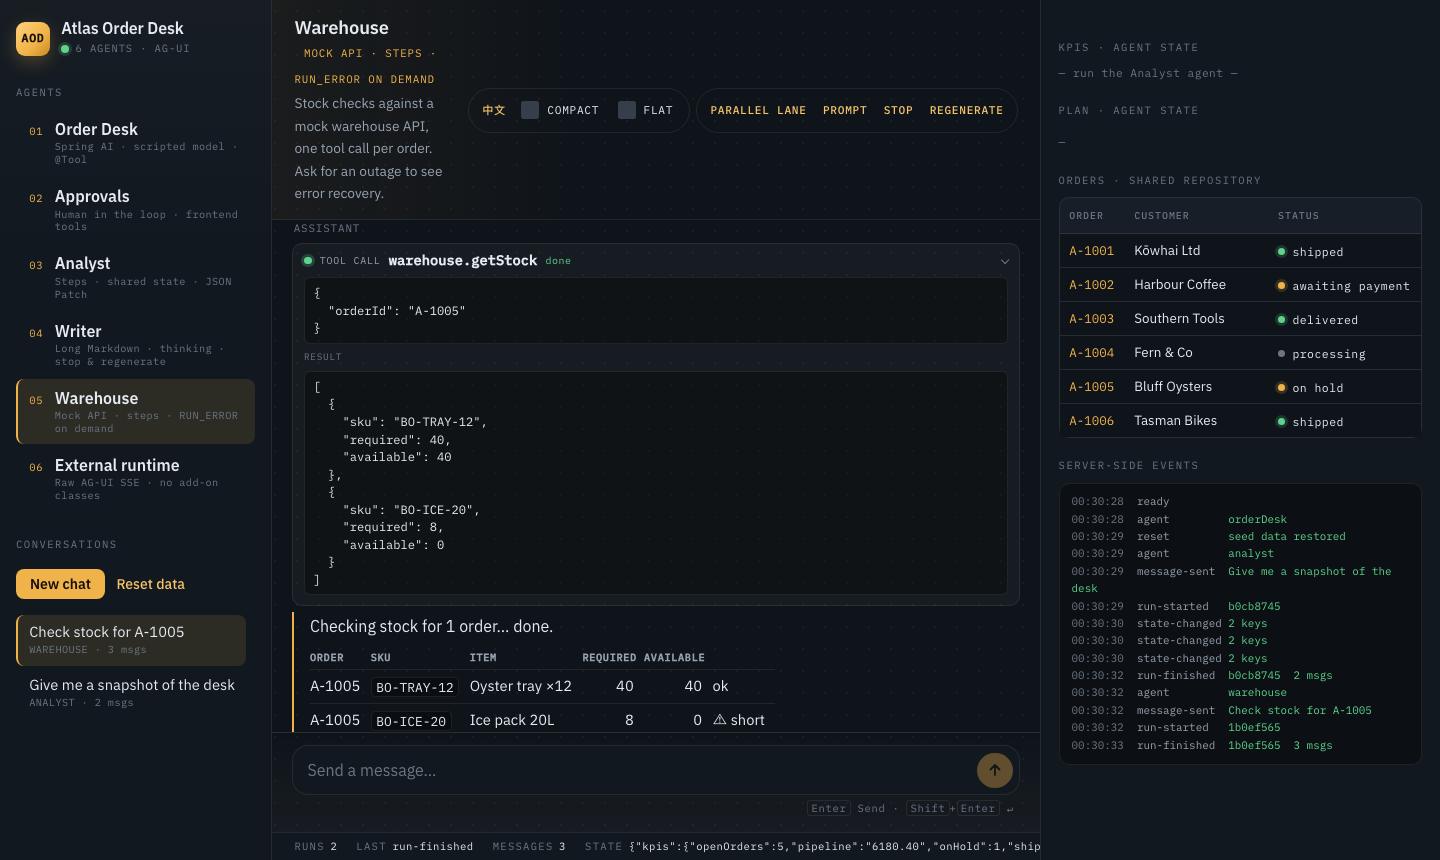
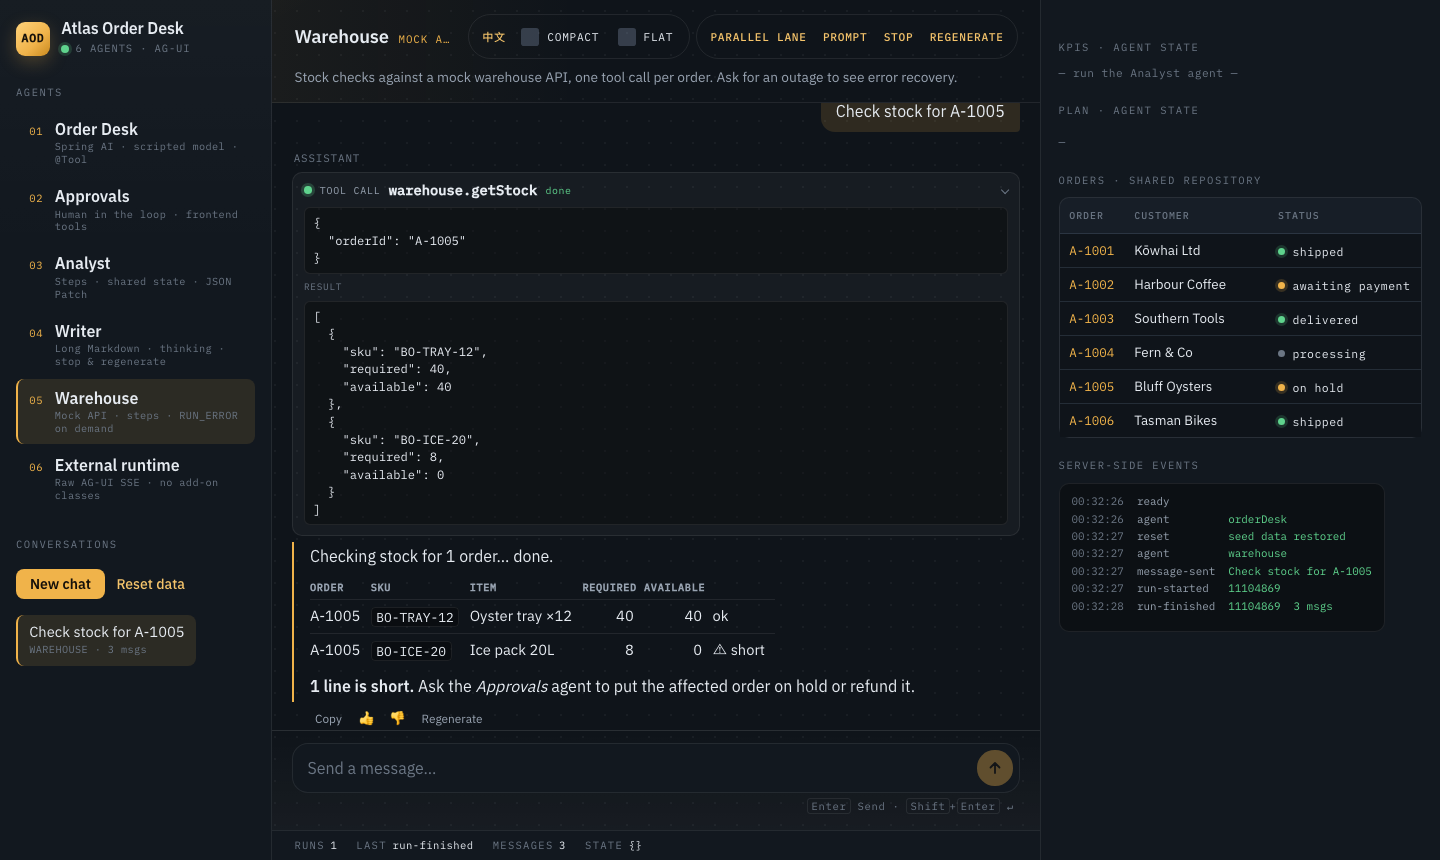
feat(ui): 顶栏两行布局；错误横幅内联重试按钮

diff --git a/src/main/resources/META-INF/frontend/agui-vaadin/agui-chat.ts b/src/main/resources/META-INF/frontend/agui-vaadin/agui-chat.ts
@@ -464,6 +464,21 @@ export class AgUiChatElement extends LitElement {
       background: var(--_error);
       box-shadow: 0 0 0 3px color-mix(in srgb, var(--_error) 22%, transparent);
     }
+    .error .error-text {
+      flex: 1 1 auto;
+      padding-top: 0.1em;
+    }
+    .error .retry {
+      flex: 0 0 auto;
+      font-size: 0.82em;
+      padding: 0.25em 0.7em;
+      border-radius: 6px;
+      border: 1px solid color-mix(in srgb, var(--_error) 45%, transparent);
+      color: var(--_error);
+    }
+    .error .retry:hover {
+      background: color-mix(in srgb, var(--_error) 12%, transparent);
+    }
 
     /* ---- 开场建议 ------------------------------------------------------ */
     .suggestions {
@@ -895,7 +910,12 @@ export class AgUiChatElement extends LitElement {
           (m) => this._renderMessage(m, t, chat, m.id === lastAssistantId),
         )}
         ${chat.error
-          ? html`<div class="error" role="alert" part="error">${t.errorPrefix}: ${chat.error.message}</div>`
+          ? html`<div class="error" role="alert" part="error">
+              <span class="error-text">${t.errorPrefix}: ${chat.error.message}</span>
+              ${indexAfterLastUser(chat.messages) > 0 && !chat.running
+                ? html`<button type="button" class="retry" @click=${this.regenerate}>${t.regenerate}</button>`
+                : nothing}
+            </div>`
           : nothing}
       </div>
       <div class="composer" part="composer">

diff --git a/CHANGELOG.md b/CHANGELOG.md
@@ -35,7 +35,7 @@
   arguments/result, thinking blocks shimmer while streaming, the composer is a rounded field with
   an icon send button and a pulsing stop button, an amber streaming caret, refined Markdown
   typography (tables, code, quotes). All colours go through `--agui-*` custom properties with Lumo
-  fallbacks so Aura works unchanged.
+  fallbacks so Aura works unchanged. The error banner offers an inline retry (`regenerate()`).
 - Example redesigned as a dark "control room": Lumo dark with an amber/green signal palette,
   IBM Plex Sans/Mono, LED run indicator, instrument-style KPI tiles, plan checklist, status dots in
   the grid, terminal-style event log, staggered column reveal. All styling lives in `atlas.css`.
